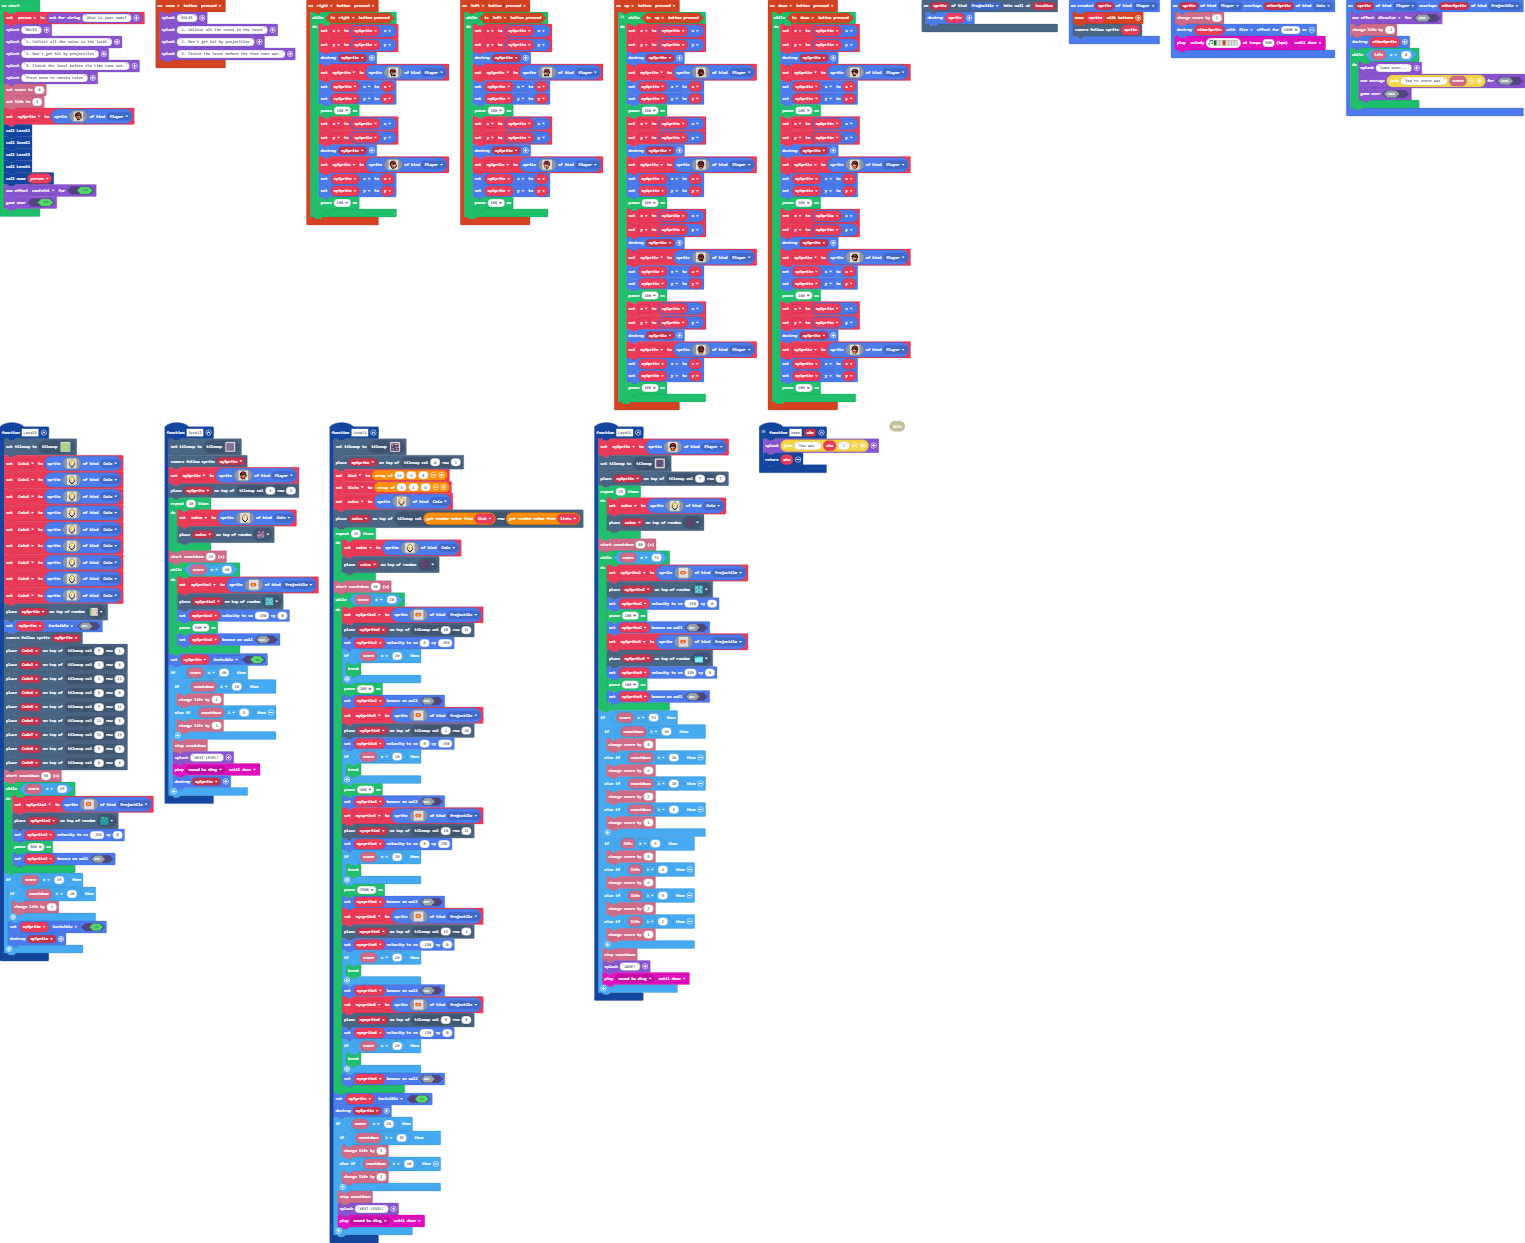
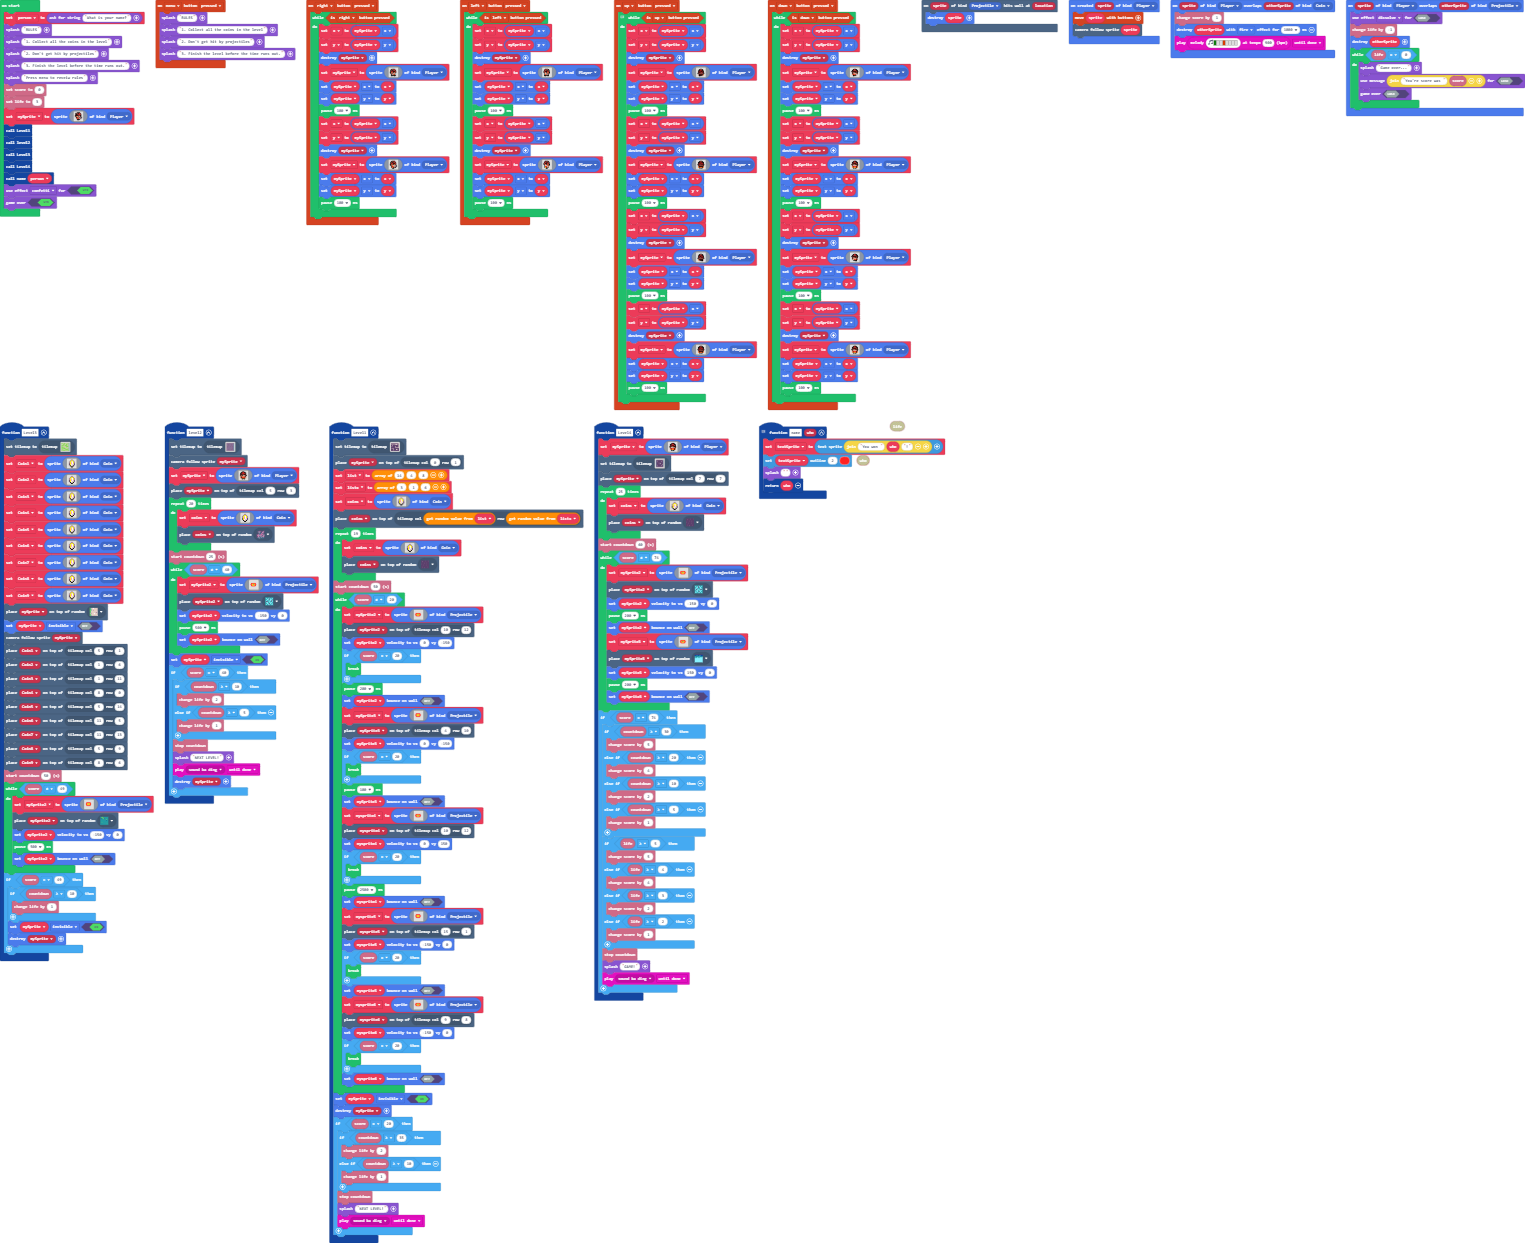
Update pxt.json, main.blocks, main.ts

Changed region(s): [[0.4931, 0.3363, 0.6164, 0.428]]

diff --git a/main.ts b/main.ts
@@ -4,7 +4,9 @@ namespace SpriteKind {
 }
 // Declairs winner of Game
 function name (who: string) {
-    game.splash("You won " + who + "!")
+    textSprite = textsprite.create("You won " + who + "!")
+    textSprite.setOutline(2, 2)
+    game.splash("")
     return who
 }
 controller.up.onEvent(ControllerButtonEvent.Pressed, function () {
@@ -842,6 +844,7 @@ let Coin2: Sprite = null
 let Coin1: Sprite = null
 let y = 0
 let x = 0
+let textSprite: TextSprite = null
 let mySprite: Sprite = null
 let person = game.askForString("What is your name?")
 game.splash("RULES")
